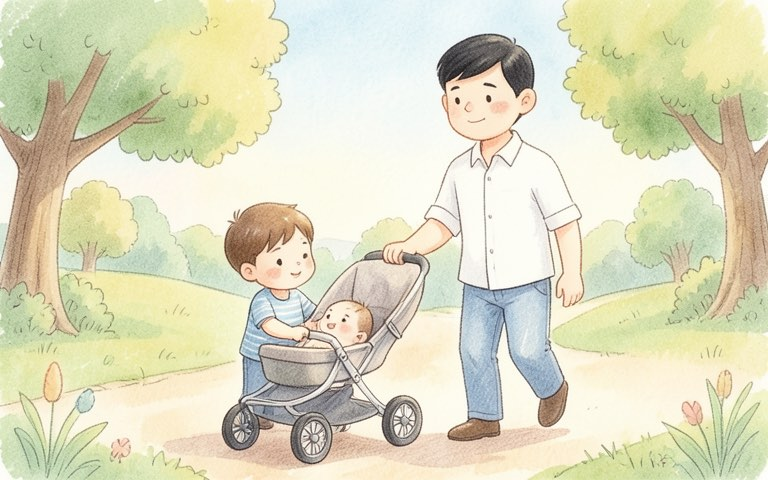
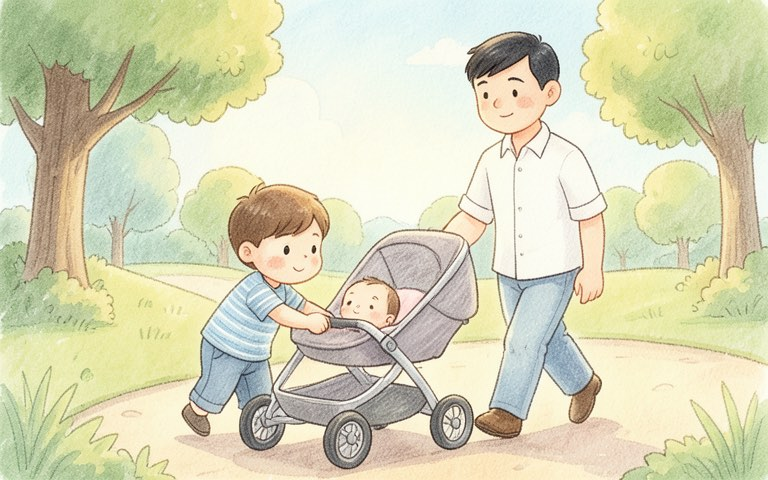
Redraw Our New Baby p17: the boy pushes the stroller himself

diff --git a/server/scripts/pregen-img.js b/server/scripts/pregen-img.js
@@ -632,7 +632,7 @@ const SCENES = {
   '77-0': ["8-year-old boy|his mom|his dad", "the boy and his parents stand among stacks of brown cardboard boxes, ready to move, only three people"], '77-1': ["8-year-old boy", "the boy kneels next to a cardboard box with no writing and puts a toy in it"], '77-2': ["8-year-old boy|teddy bear:", "the boy puts his toys and books into a brown cardboard box, the old brown teddy bear with a red bow on top, alone"], '77-3': ["his mom", "his tall mom with a black ponytail tapes a closed cardboard box with no writing, she is the only person in the picture, no children"], '77-4': ["", "the big white moving truck parks in front of the old apartment building, nobody around"], '77-5': ["", "two grown-up movers carry one big cardboard box with no writing together, only two people"], '77-6': ["8-year-old boy", "the boy stands in his empty old room and waves goodbye, alone"], '77-7': ["8-year-old boy", "the boy sits on a box in the empty old room with a sad face, alone"], '77-8': ["his dad", "the small blue family car drives along a quiet street, his dad drives in the front seat, the big white moving truck behind it"], '77-9': ["8-year-old boy|new house:", "the boy stands in front of the new white house and looks at the red front door, alone"], '77-10': ["8-year-old boy", "the boy stands in the middle of an empty room with bare walls, alone"], '77-11': ["8-year-old boy", "the boy looks up at the big empty room with wide eyes, the room looks huge, alone"], '77-12': ["8-year-old boy|his mom|his dad","in the new empty room, the family opens the moving boxes together: the boy in the green hoodie opens a box on the floor, the mom with a black ponytail in a light blue shirt takes out books, and the dad with glasses in a gray T-shirt opens another box. Exactly three people: one boy, one mom and one dad, each drawn once"], '77-13': ["8-year-old boy|teddy bear:", "the boy hugs a teddy bear as big as his chest"], '77-14': ["his dad","in the boy's new room, the dad with glasses in a gray T-shirt pushes the small wooden bed under the window; the boy in the green hoodie, who has no glasses, stands beside him and watches. Exactly two people"], '77-15': ["his mom", "his mom hangs a child's colorful picture on the wall, alone"], '77-16': ["8-year-old boy", "the boy hears a knock and looks at the red front door from inside the hallway, alone"], '77-17': ["8-year-old boy|Hana", "the boy opens the red front door, and Hana stands outside smiling, only two children"], '77-18': ["8-year-old boy|Hana", "Hana holds out a plate of cookies to the boy at the red front door, only two children"], '77-19': ["Hana", "Hana smiles and waves hello, alone"], '77-20': ["8-year-old boy|Hana", "the boy and Hana play with toy cars on the floor of the new room among open boxes, only two children"], '77-21': ["8-year-old boy|Hana", "the boy and Hana laugh together, sitting on the floor of the new room, only two children"], '77-22': ["8-year-old boy|teddy bear:", "the boy lies happily on his bed by the window in the new room, hugging the old brown teddy bear with a red bow, alone"], '77-23': ["8-year-old boy|his mom|his dad", "the boy and his parents smile together in the new room, all the boxes unpacked, only three people"],
   '78-0': ["6-year-old|grandma", "the girl holds her grandma's hand and points at the big aquarium building"], '78-1': ["6-year-old|grandma", "the girl and her grandma walk into a big blue room with huge glass tanks"], '78-2': ["6-year-old|grandma", "the girl and her grandma stand amazed, blue water and fish all around them behind the glass"], '78-3': ["6-year-old|grandma","inside a long glass tunnel under the water in the aquarium: the curved glass ceiling arches over their heads and colorful fish swim on the other side of the glass above them; the girl with curly black hair in the red dress and grandma with gray hair and glasses in the purple cardigan walk on the dry tunnel floor and look up at the fish. Only two people"], '78-4': ["6-year-old girl","a big aquarium glass wall: on the other side of the glass, one big sea turtle swims in the blue water; on this side, the girl with curly black hair in the red dress stands on the dry floor and points at it, her finger touching only the glass. Only one child"], '78-5': ["", "one big green sea turtle swims slowly in the blue water, only one turtle"], '78-6': ["6-year-old","a big aquarium glass wall: on the other side of the glass, one gray shark with sharp teeth swims in the blue water; on this side, the girl with curly black hair in the red dress stands on the dry floor and steps back surprised. Only one child, no other animals"], '78-7': ["", "one big gray shark shows many sharp white teeth, cute and not too scary, only one shark"], '78-8': ["6-year-old|grandma", "the girl holds her grandma's hand tightly, a shark in the tank behind them"], '78-9': ["6-year-old|grandma","at the penguin area of the aquarium: behind a low glass fence, penguins stand on white rocks and swim in a pool; in front of the fence, the girl with curly black hair in the red dress and grandma with gray hair and glasses in the purple cardigan stand on the dry floor and watch. Only two people"], '78-10': ["", "black and white penguins jump into the water with big splashes"], '78-11': ["6-year-old girl", "penguins stand on rocks inside the glass, the girl watches from outside the glass"], '78-12': ["6-year-old girl","at the penguin glass wall: on the other side of the glass, one penguin stands close and looks right at the girl; on this side, the girl with curly black hair in the red dress stands on the dry floor and looks back at it, face to face. Only one child, only one penguin"], '78-13': ["6-year-old", "the girl waves at one penguin behind the glass, and the penguin flaps its wings"], '78-14': ["6-year-old girl", "the girl in a red dress kneels on the dry floor beside a low round touch pool and touches one small starfish in the water with one finger, her feet and dress stay dry outside the pool"], '78-15': ["6-year-old girl", "the girl in a red dress kneels on the dry floor beside the low touch pool and smiles at one small bumpy starfish under her finger, she is outside the water"], '78-16': ["6-year-old|grandma", "the girl and her grandma look at glowing jellyfish tanks in a dark room"], '78-17': ["", "glowing pink and purple jellyfish float in a dark blue tank"], '78-18': ["", "jellyfish float inside a dark glass tank"], '78-19': ["6-year-old|grandma|toy whale:", "her grandma gives the girl the small blue toy whale in the gift shop"], '78-20': ["6-year-old|toy whale:", "the girl hugs the small blue toy whale and smiles, alone"], '78-21': ["6-year-old girl|toy whale:", "the girl sits in a car seat in the back of the car, hugging a whale toy, sleepy"], '78-22': ["6-year-old", "the girl swims happily with friendly fish, a sea turtle and a whale in a dream under the sea"], '78-23': ["6-year-old|grandma|toy whale:", "the girl and her grandma smile together and hold hands, the girl hugs the small blue toy whale"],
   '79-0': ["8-year-old", "the girl looks out of the window at falling snow with a big smile, alone"], '79-1': ["8-year-old|her dad", "the girl and her dad choose a big green pine tree at a snowy tree farm"], '79-2': ["her dad", "her tall dad with a beard in a green sweater carries a big green pine tree on his shoulder through the snow, his smiling face is clearly visible in front of the tree, only one person, no children"], '79-3': ["8-year-old|her mom|her dad|the tree:", "the girl and her parents put the big green Christmas tree in the corner of the living room, only three people"], '79-4': ["8-year-old|the tree:", "the girl hangs a shiny red ball on the big green Christmas tree, alone"], '79-5': ["the tree:", "her mom puts colorful lights on one big green Christmas tree, alone, only one tree in the room. Who is in the picture: her mom with long brown hair in a white sweater, a grown-up adult. exactly one person in the whole picture, each person appears only once, nobody else"], '79-6': ["the tree:", "one shiny gold star on the top of the big green Christmas tree, nobody around"], '79-7': ["8-year-old|her mom", "the girl and her mom bake cookies together in the kitchen"], '79-8': ["8-year-old", "the girl cuts star shapes out of cookie dough, alone"], '79-9': ["8-year-old", "the girl sits alone at a small table and draws on a folded card with crayons, an empty chair across from her, only one child"], '79-10': ["8-year-old girl", "the girl draws a snowman on one small card on the table"], '79-11': ["8-year-old|the tree:", "the girl sings happily with her mouth open next to the big green Christmas tree, music notes in the air, only one child"], '79-12': ["8-year-old|the tree:", "the girl puts a glass of milk and a plate of cookies next to the big green Christmas tree, alone"], '79-13': ["8-year-old girl", "the girl lies down under the blanket in bed"], '79-14': ["8-year-old", "the girl sleeps in bed, through the window a tiny sleigh with reindeer flies across one full moon, nobody at the window"], '79-15': ["the tree:", "wrapped presents under the big green Christmas tree in the morning, nobody around"], '79-16': ["8-year-old|her mom|her dad|the tree:", "the girl with a red hairband opens a present with her tall mom and her tall dad under the big green Christmas tree, exactly three people, only one child"], '79-17': ["8-year-old", "the girl hugs a shiny red sled with a big happy smile, alone"], '79-18': ["8-year-old|her mom|her dad", "the girl and her parents play in the snow in the backyard, only three people"], '79-19': ["8-year-old|her dad", "the girl and her dad make a big snowman together"], '79-20': ["8-year-old girl", "the girl puts a scarf around the snowman's neck once"], '79-21': ["8-year-old|her mom|her dad", "the girl and her parents sit at a table with a big Christmas dinner, only three people"], '79-22': ["8-year-old|her grandma|her grandpa", "her grandma and her grandpa hug the girl happily at the dinner table, only three people"], '79-23': ["8-year-old|her mom|her dad|the tree:", "the girl and her parents smile together in front of the big green Christmas tree, only three people"],
-  '80-0': ["7-year-old|his mom", "the boy gently puts his hand on his mom's round belly, both smiling"], '80-1': ["7-year-old", "the boy points at himself proudly with a big smile, alone"], '80-2': ["7-year-old|his dad", "the boy and his tall grown-up dad put together the small white baby bed, the bed is empty"], '80-3': ["7-year-old|his dad", "the boy and his tall grown-up dad hold paint rollers in the empty baby room"], '80-4': ["7-year-old|his dad", "the boy and his tall grown-up dad paint the walls light yellow"], '80-5': ["7-year-old|the baby room:", "the boy stands outside the baby crib and puts a small teddy bear in it"], '80-6': ["", "one tiny newborn baby sleeps in a small baby basket"], '80-7': ["his mom", "his mom sits in a single armchair and talks with a gentle smile, hands on her round belly, only one person"], '80-8': ["7-year-old", "the boy smiles and shakes his head kindly, alone"], '80-9': ["7-year-old|his mom", "the boy sings a song to his mom's round belly"], '80-10': ["7-year-old|his mom", "the boy reads a picture book out loud to his mom's round belly on the sofa"], '80-11': ["7-year-old|the baby:", "the boy rolls a ball to one small baby toddler with light brown hair in a yellow onesie, much smaller than the boy, on the living room floor"], '80-12': ["7-year-old|the baby:", "the boy and one small baby toddler with light brown hair in a yellow onesie, much smaller than the boy build a tall block tower on the floor"], '80-13': ["7-year-old|the baby:", "the boy points at himself and talks to one small baby toddler with light brown hair in a yellow onesie, much smaller than the boy, sitting on the floor"], '80-14': ["7-year-old", "the boy smiles at one tiny baby lying on a blanket, much smaller than him"], '80-15': ["7-year-old|the baby:", "the boy kneels on the rug and shows a row of small colorful toy cars to the small baby toddler in a yellow onesie, who reaches for a red one and smiles. Only one child and one baby"], '80-16': ["7-year-old|the baby:", "the boy walks in the park holding hands with one small baby toddler with light brown hair in a yellow onesie, much smaller than the boy"], '80-17': ["7-year-old|his dad", "the boy pushes a stroller with a tiny baby, his tall dad walks beside him"], '80-18': ["7-year-old|the baby room:", "the boy holds the tiny hand of a newborn baby lying in a crib"], '80-19': ["7-year-old", "the boy smiles and points up at a thought bubble that shows one tiny baby girl with a pink bow in a pink onesie, only one child in the room"], '80-20': ["7-year-old|his dad", "his tall grown-up dad hugs the boy on the sofa, both smiling"], '80-21': ["7-year-old", "the boy stands proudly with his hands on his hips like a hero, alone"], '80-22': ["7-year-old|his mom", "the boy carries a small laundry basket and helps his mom"], '80-23': ["7-year-old|his mom|his dad", "the boy and his parents sit on the sofa together, his mom has a round belly, everyone smiling"],
+  '80-0': ["7-year-old|his mom", "the boy gently puts his hand on his mom's round belly, both smiling"], '80-1': ["7-year-old", "the boy points at himself proudly with a big smile, alone"], '80-2': ["7-year-old|his dad", "the boy and his tall grown-up dad put together the small white baby bed, the bed is empty"], '80-3': ["7-year-old|his dad", "the boy and his tall grown-up dad hold paint rollers in the empty baby room"], '80-4': ["7-year-old|his dad", "the boy and his tall grown-up dad paint the walls light yellow"], '80-5': ["7-year-old|the baby room:", "the boy stands outside the baby crib and puts a small teddy bear in it"], '80-6': ["", "one tiny newborn baby sleeps in a small baby basket"], '80-7': ["his mom", "his mom sits in a single armchair and talks with a gentle smile, hands on her round belly, only one person"], '80-8': ["7-year-old", "the boy smiles and shakes his head kindly, alone"], '80-9': ["7-year-old|his mom", "the boy sings a song to his mom's round belly"], '80-10': ["7-year-old|his mom", "the boy reads a picture book out loud to his mom's round belly on the sofa"], '80-11': ["7-year-old|the baby:", "the boy rolls a ball to one small baby toddler with light brown hair in a yellow onesie, much smaller than the boy, on the living room floor"], '80-12': ["7-year-old|the baby:", "the boy and one small baby toddler with light brown hair in a yellow onesie, much smaller than the boy build a tall block tower on the floor"], '80-13': ["7-year-old|the baby:", "the boy points at himself and talks to one small baby toddler with light brown hair in a yellow onesie, much smaller than the boy, sitting on the floor"], '80-14': ["7-year-old", "the boy smiles at one tiny baby lying on a blanket, much smaller than him"], '80-15': ["7-year-old|the baby:", "the boy kneels on the rug and shows a row of small colorful toy cars to the small baby toddler in a yellow onesie, who reaches for a red one and smiles. Only one child and one baby"], '80-16': ["7-year-old|the baby:", "the boy walks in the park holding hands with one small baby toddler with light brown hair in a yellow onesie, much smaller than the boy"], '80-17': ["7-year-old|his dad", "in the park, the boy stands right behind the baby stroller and pushes it forward with both of his own hands on the stroller handle, a tiny baby inside; his tall dad walks one step beside him with empty hands, not touching the stroller"], '80-18': ["7-year-old|the baby room:", "the boy holds the tiny hand of a newborn baby lying in a crib"], '80-19': ["7-year-old", "the boy smiles and points up at a thought bubble that shows one tiny baby girl with a pink bow in a pink onesie, only one child in the room"], '80-20': ["7-year-old|his dad", "his tall grown-up dad hugs the boy on the sofa, both smiling"], '80-21': ["7-year-old", "the boy stands proudly with his hands on his hips like a hero, alone"], '80-22': ["7-year-old|his mom", "the boy carries a small laundry basket and helps his mom"], '80-23': ["7-year-old|his mom|his dad", "the boy and his parents sit on the sofa together, his mom has a round belly, everyone smiling"],
   '33-4': ['', 'one eggplant on a kitchen counter, drawn at its real size, nothing giant'],
   '33-6': ['', 'one glass on a kitchen counter, drawn at its real size, nothing giant'],
   '33-11': ['', "one yellow lemon on a kitchen counter, drawn at its real size, nothing giant"],
